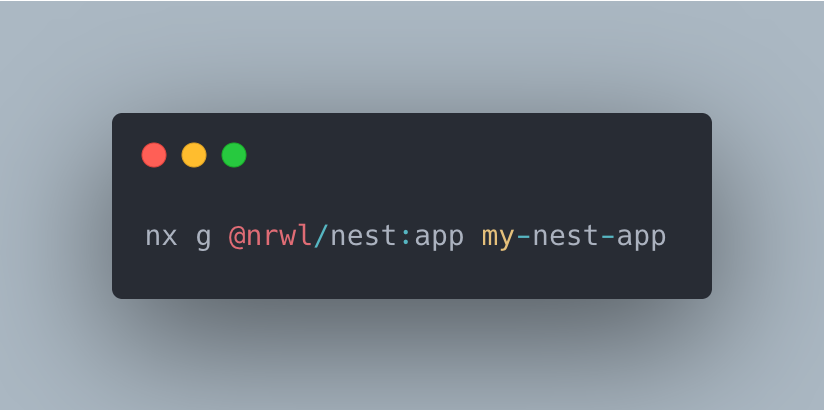
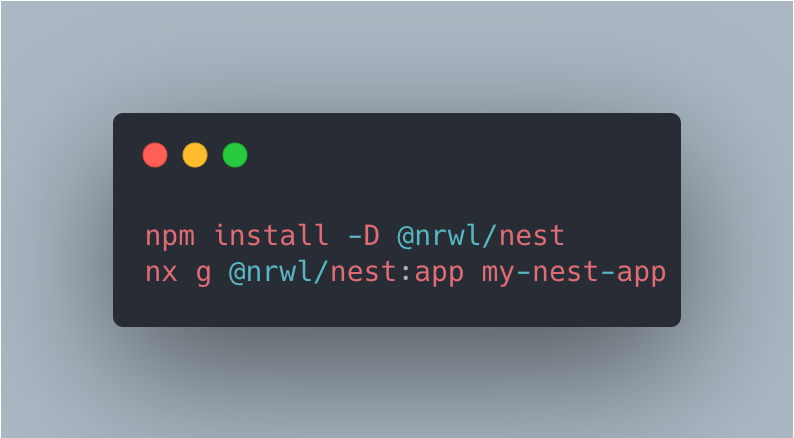
add links and change photo

Changed region(s): [[0.1209, 0.2341, 0.8766, 0.761], [0.9975, 0.0, 1.0, 1.0]]

diff --git a/monorepos.md b/monorepos.md
@@ -42,4 +42,4 @@ Last but not least, Nx CLI provides us with bunch of commands useful for testing
 
 ![serve](serve.png)
 
-This will conclude the idea of monorepo and why we should or should not use it. Many companies use monorepos for their codebases and they have plethora of use cases. Nowadays there are far more pros than cons regarding monorepo usage.
+This will conclude the idea of monorepo and why we should or should not use it. Many companies use monorepos for their codebases and they have plethora of use cases. Nowadays there are far more pros than cons regarding monorepo usage, but it's always better to try than just read, so try it at https://nx.dev/
